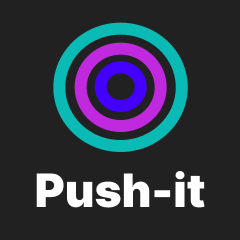
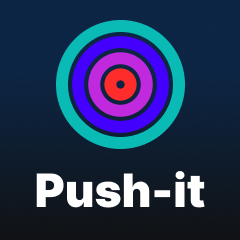
Changes

diff --git a/index.html b/index.html
@@ -11,6 +11,9 @@
     <meta name="apple-mobile-web-app-status-bar-style" content="black-translucent" />
     <title>30K</title>
     <meta name="description" content="Push-it - Track your daily push-ups and reach 30,000 per year">
+    <link rel="icon" type="image/png" href="/app-icon.png">
+    <link rel="apple-touch-icon" href="/apple-touch-icon.png">
+
 
     
     
